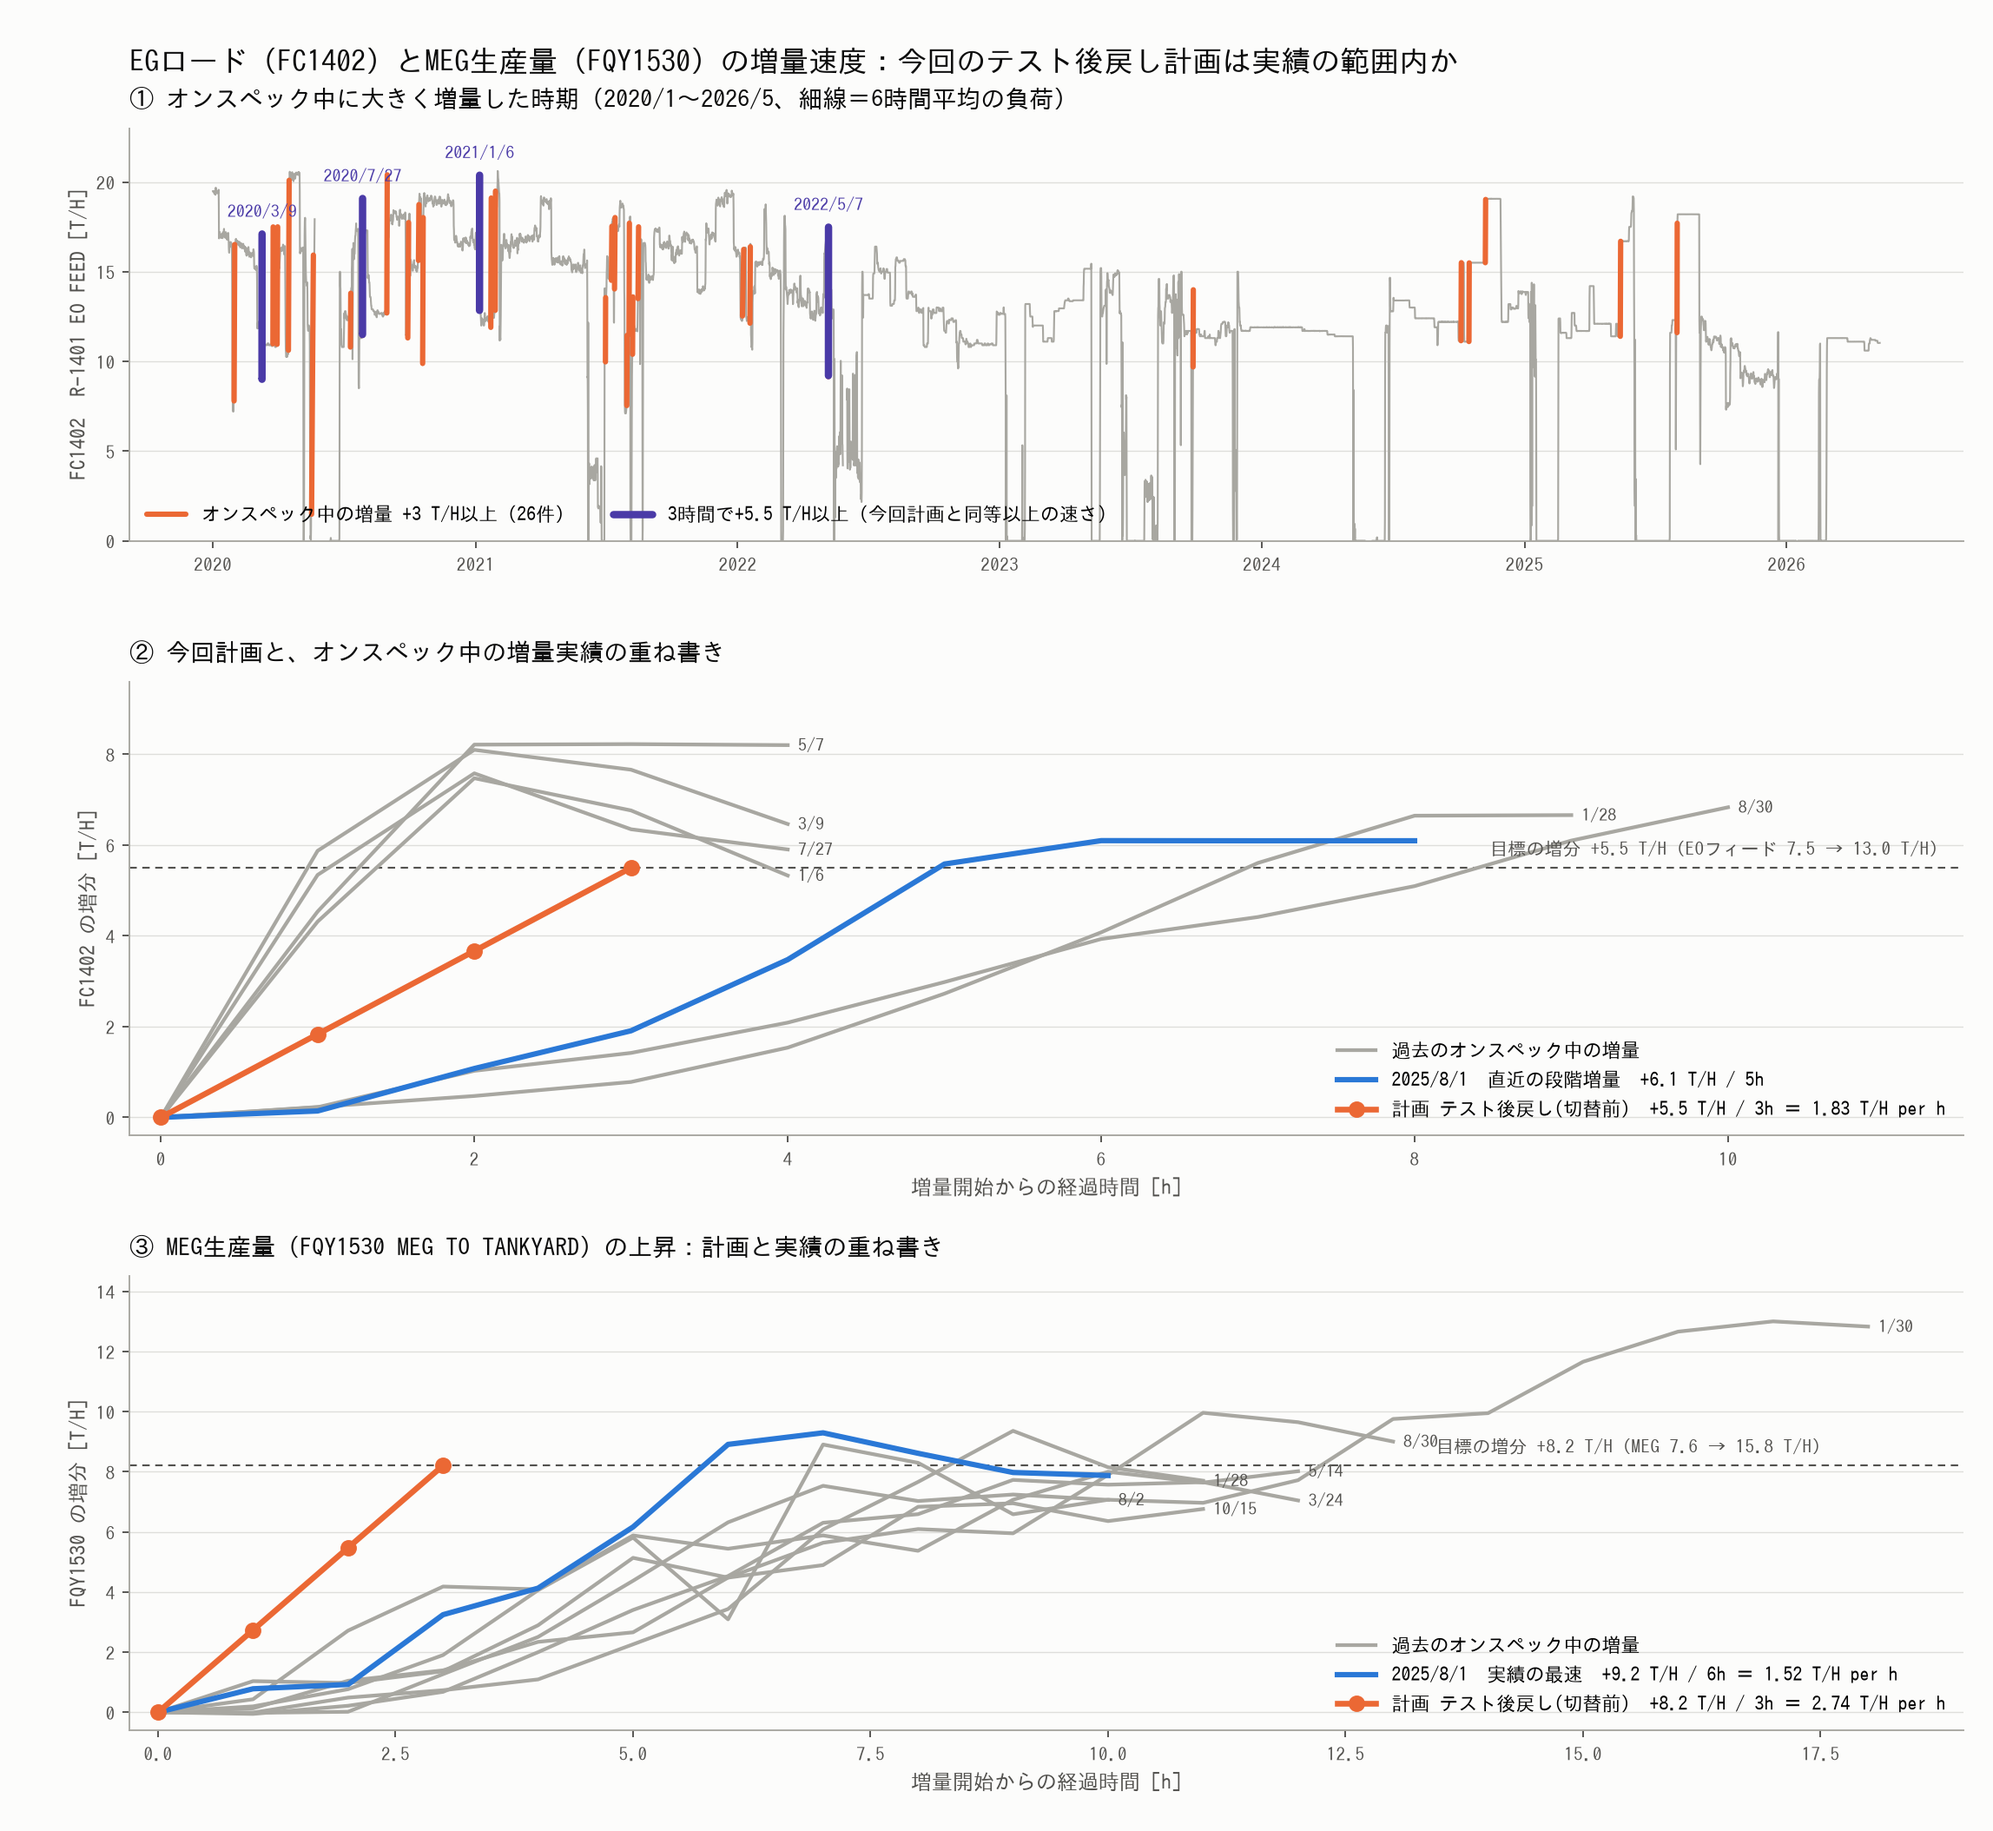
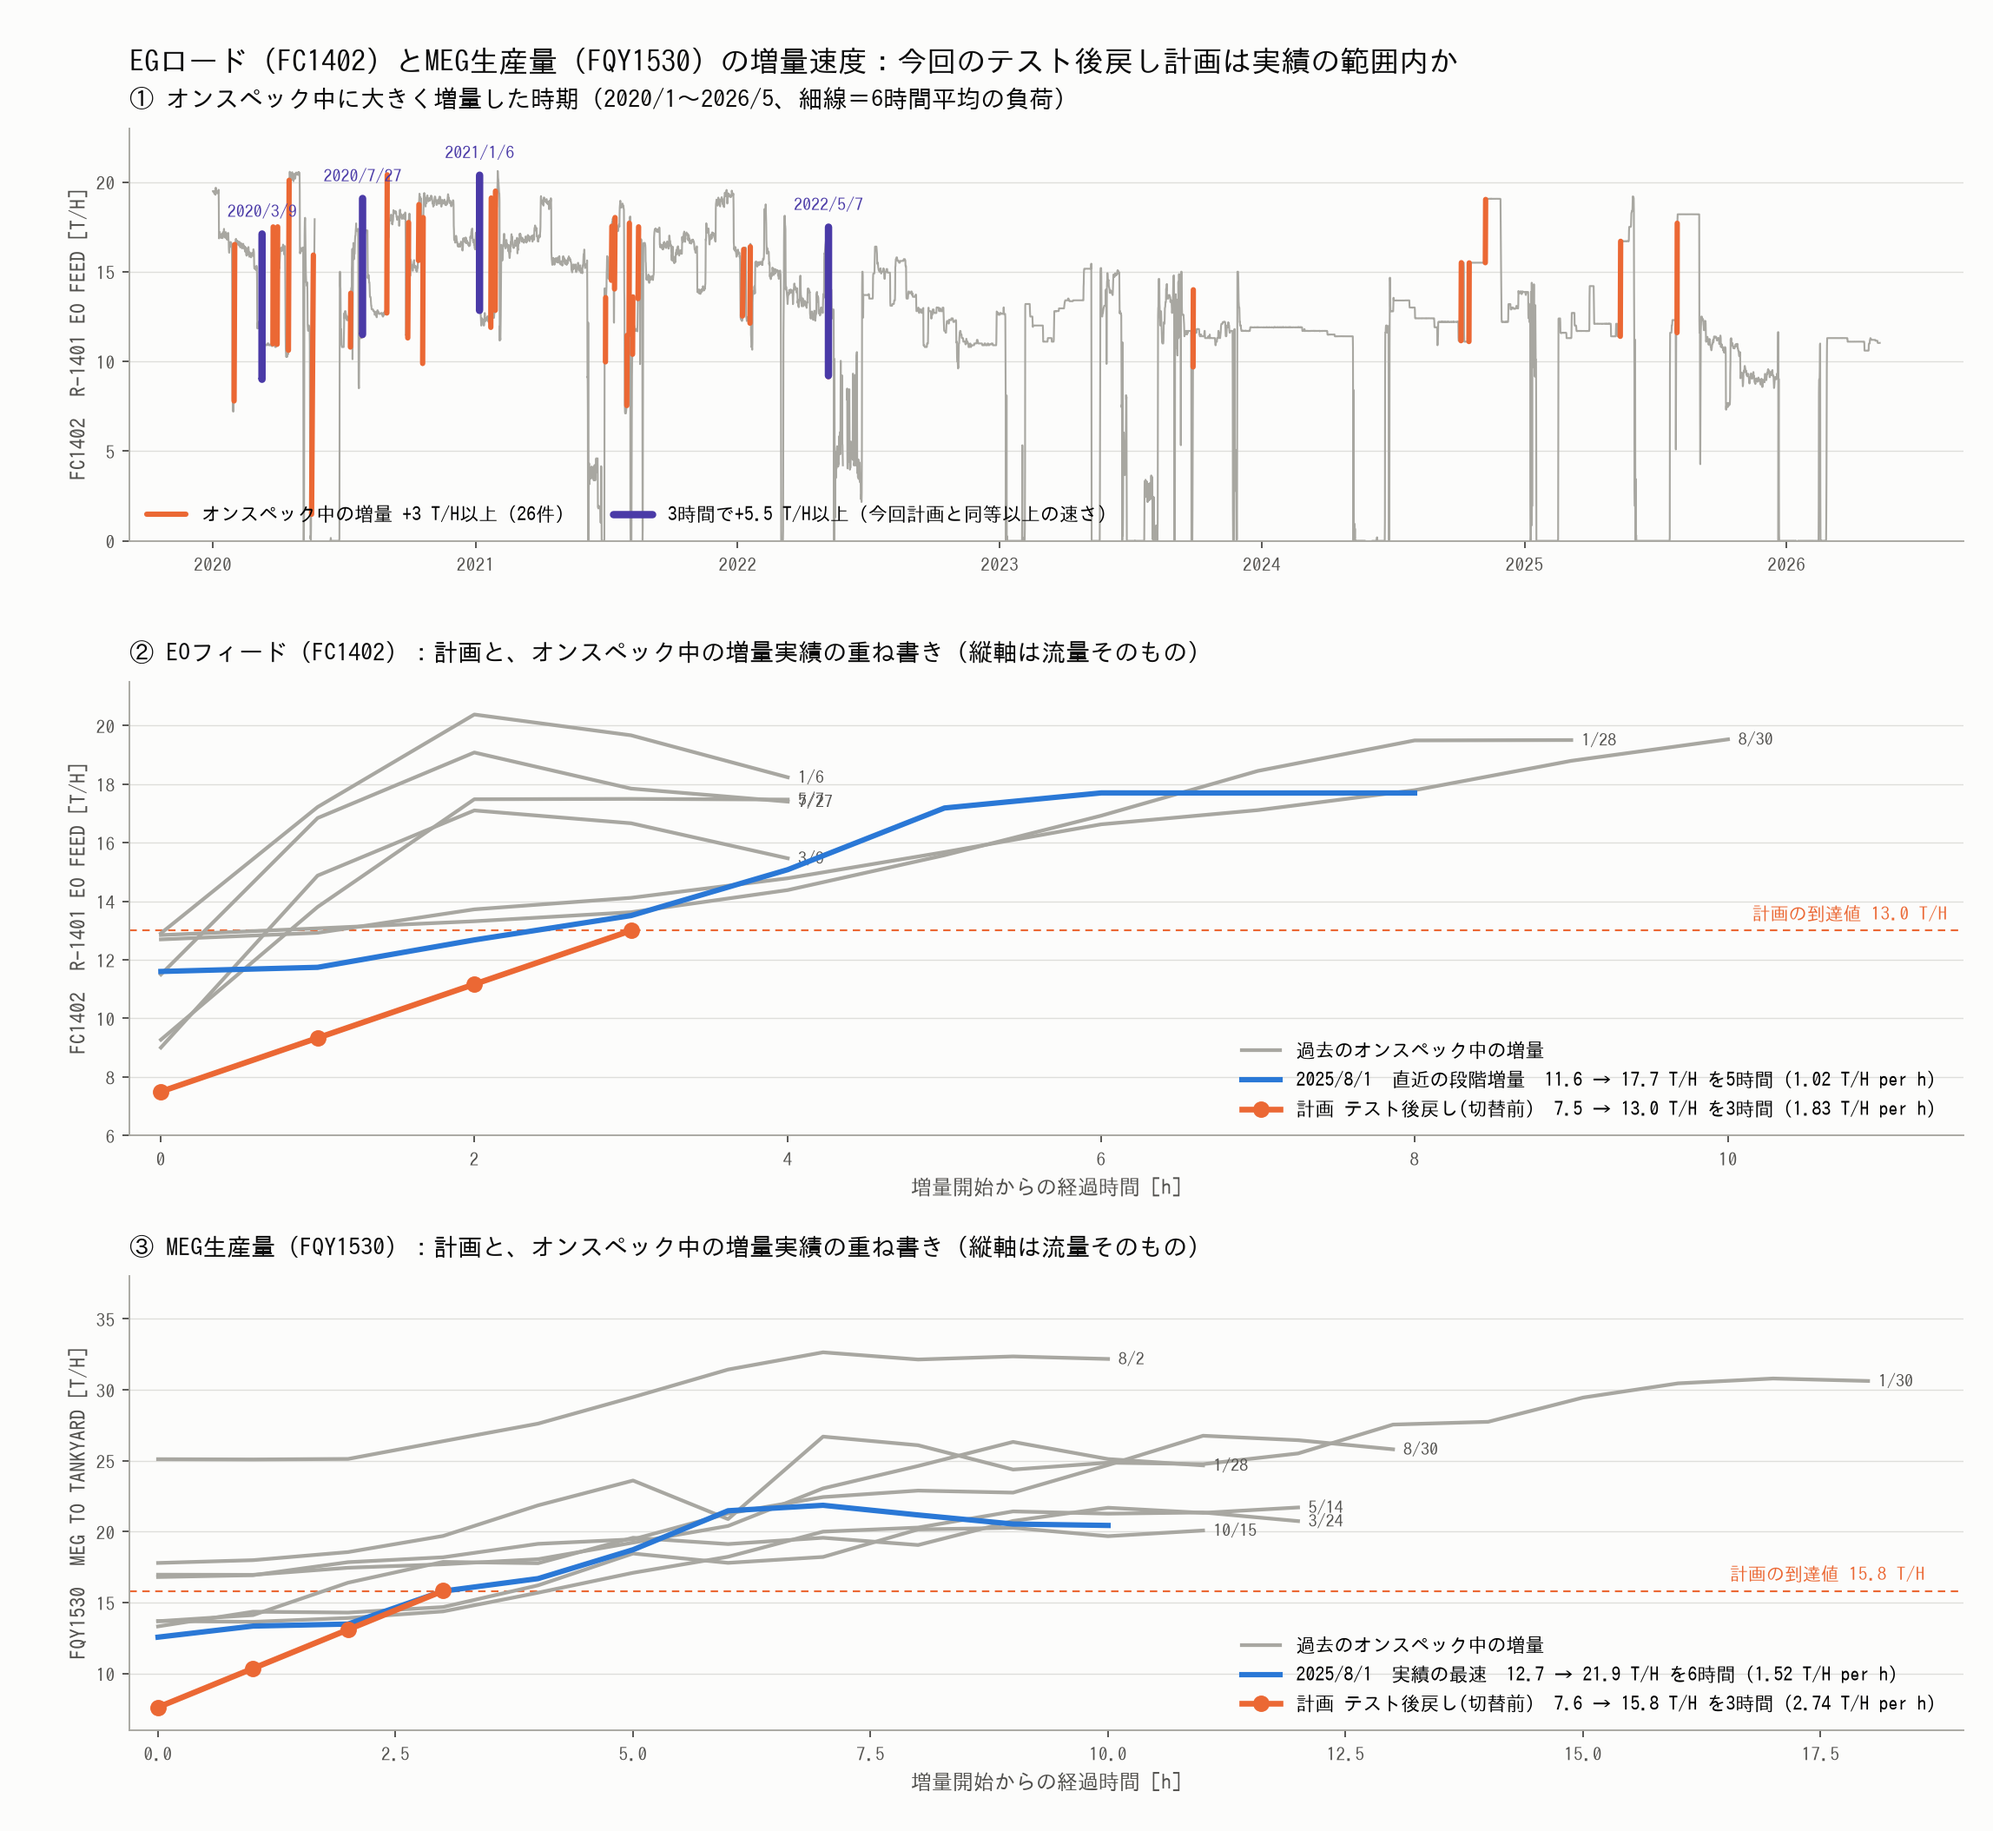
重ね書きの縦軸を差分から流量そのものに変更
②③の縦軸を「増量開始時点からの増分」ではなく FC1402 / FQY1530 の
流量値[T/H]そのままにし、計画の到達値を破線で示した。

Claude-Session: https://claude.ai/code/session_01DLLEnCkLEG9wDthmhzEFpm

diff --git a/scripts/plot_rampup_vs_plan.py b/scripts/plot_rampup_vs_plan.py
@@ -81,26 +81,25 @@ past = [('2020-03-09 10:00', 4), ('2020-07-27 10:00', 4), ('2021-01-06 10:00', 4
 first = True
 for t0, hrs in past:
     seg = L.loc[t0:pd.Timestamp(t0) + pd.Timedelta(hours=hrs)]
-    ax2.plot(range(len(seg)), seg.values - seg.iloc[0], lw=1.8, color=MUTED, zorder=2,
+    ax2.plot(range(len(seg)), seg.values, lw=1.8, color=MUTED, zorder=2,
              label='過去のオンスペック中の増量' if first else None)
     first = False
-    ax2.annotate(pd.Timestamp(t0).strftime('%-m/%-d'),
-                 xy=(len(seg) - 1, seg.iloc[-1] - seg.iloc[0]), xytext=(5, -3),
-                 textcoords='offset points', fontsize=8.5, color=INK2)
+    ax2.annotate(pd.Timestamp(t0).strftime('%-m/%-d'), xy=(len(seg) - 1, seg.iloc[-1]),
+                 xytext=(5, -3), textcoords='offset points', fontsize=8.5, color=INK2)
 seg = L.loc['2025-08-01 09:00':'2025-08-01 17:00']
-ax2.plot(range(len(seg)), seg.values - seg.iloc[0], lw=2.6, color=BLUE, zorder=4,
-         label='2025/8/1  直近の段階増量  +6.1 T/H / 5h')
-ax2.plot(range(len(plan3)), np.array(plan3) - plan3[0], lw=2.8, color=ORANGE, zorder=5,
-         marker='o', ms=7, label='計画 テスト後戻し(切替前)  +5.5 T/H / 3h ＝ 1.83 T/H per h')
-ax2.axhline(5.5, color=INK2, lw=0.9, ls=(0, (4, 3)), zorder=1)
-ax2.annotate('目標の増分 +5.5 T/H（EOフィード 7.5 → 13.0 T/H）', xy=(11.4, 5.5),
-             xytext=(0, 6), textcoords='offset points', ha='right', fontsize=9, color=INK2)
+ax2.plot(range(len(seg)), seg.values, lw=2.6, color=BLUE, zorder=4,
+         label='2025/8/1  直近の段階増量  11.6 → 17.7 T/H を5時間（1.02 T/H per h）')
+ax2.plot(range(len(plan3)), np.array(plan3), lw=2.8, color=ORANGE, zorder=5, marker='o', ms=7,
+         label='計画 テスト後戻し(切替前)  7.5 → 13.0 T/H を3時間（1.83 T/H per h）')
+ax2.axhline(13.0, color=ORANGE, lw=0.9, ls=(0, (4, 3)), zorder=1)
+ax2.annotate('計画の到達値 13.0 T/H', xy=(11.4, 13.0), xytext=(0, 5), textcoords='offset points',
+             ha='right', fontsize=9, color=ORANGE)
 ax2.set_xlabel('増量開始からの経過時間 [h]', fontsize=10, color=INK2)
-ax2.set_ylabel('FC1402 の増分 [T/H]', fontsize=10, color=INK2)
-ax2.set_title('② 今回計画と、オンスペック中の増量実績の重ね書き', fontsize=12, color=INK, loc='left', pad=10)
+ax2.set_ylabel('FC1402  R-1401 EO FEED [T/H]', fontsize=10, color=INK2)
+ax2.set_title('② EOフィード（FC1402）：計画と、オンスペック中の増量実績の重ね書き（縦軸は流量そのもの）', fontsize=12, color=INK, loc='left', pad=10)
 ax2.legend(frameon=False, fontsize=9.5, loc='lower right')
 ax2.set_xlim(-0.2, 11.5)
-ax2.set_ylim(-0.4, 9.6)
+ax2.set_ylim(6, 21.5)
 for sp in ('top', 'right'):
     ax2.spines[sp].set_visible(False)
 for sp in ('left', 'bottom'):
@@ -120,26 +119,26 @@ planQ3 = [7.625, 10.361111, 13.097222, 15.833333]
 first = True
 for t0, hrs in meg_past:
     seg = Qc.loc[t0:pd.Timestamp(t0) + pd.Timedelta(hours=hrs)].ffill()
-    ax3.plot(range(len(seg)), seg.values - seg.iloc[0], lw=1.8, color=MUTED, zorder=2,
+    ax3.plot(range(len(seg)), seg.values, lw=1.8, color=MUTED, zorder=2,
              label='過去のオンスペック中の増量' if first else None)
     first = False
-    ax3.annotate(pd.Timestamp(t0).strftime('%-m/%-d'), xy=(len(seg) - 1, seg.iloc[-1] - seg.iloc[0]),
+    ax3.annotate(pd.Timestamp(t0).strftime('%-m/%-d'), xy=(len(seg) - 1, seg.iloc[-1]),
                  xytext=(5, -3), textcoords='offset points', fontsize=8.5, color=INK2)
 seg = Qc.loc['2025-08-01 09:00':'2025-08-01 19:00'].ffill()
-ax3.plot(range(len(seg)), seg.values - seg.iloc[0], lw=2.6, color=BLUE, zorder=4,
-         label='2025/8/1  実績の最速  +9.2 T/H / 6h ＝ 1.52 T/H per h')
-ax3.plot(range(len(planQ3)), np.array(planQ3) - planQ3[0], lw=2.8, color=ORANGE, zorder=5,
-         marker='o', ms=7, label='計画 テスト後戻し(切替前)  +8.2 T/H / 3h ＝ 2.74 T/H per h')
-ax3.axhline(8.21, color=INK2, lw=0.9, ls=(0, (4, 3)), zorder=1)
-ax3.annotate('目標の増分 +8.2 T/H（MEG 7.6 → 15.8 T/H）', xy=(17.6, 8.21), xytext=(0, 6),
-             textcoords='offset points', ha='right', fontsize=9, color=INK2)
+ax3.plot(range(len(seg)), seg.values, lw=2.6, color=BLUE, zorder=4,
+         label='2025/8/1  実績の最速  12.7 → 21.9 T/H を6時間（1.52 T/H per h）')
+ax3.plot(range(len(planQ3)), np.array(planQ3), lw=2.8, color=ORANGE, zorder=5, marker='o', ms=7,
+         label='計画 テスト後戻し(切替前)  7.6 → 15.8 T/H を3時間（2.74 T/H per h）')
+ax3.axhline(15.83, color=ORANGE, lw=0.9, ls=(0, (4, 3)), zorder=1)
+ax3.annotate('計画の到達値 15.8 T/H', xy=(18.6, 15.83), xytext=(0, 5), textcoords='offset points',
+             ha='right', fontsize=9, color=ORANGE)
 ax3.set_xlabel('増量開始からの経過時間 [h]', fontsize=10, color=INK2)
-ax3.set_ylabel('FQY1530 の増分 [T/H]', fontsize=10, color=INK2)
-ax3.set_title('③ MEG生産量（FQY1530 MEG TO TANKYARD）の上昇：計画と実績の重ね書き',
+ax3.set_ylabel('FQY1530  MEG TO TANKYARD [T/H]', fontsize=10, color=INK2)
+ax3.set_title('③ MEG生産量（FQY1530）：計画と、オンスペック中の増量実績の重ね書き（縦軸は流量そのもの）',
               fontsize=12, color=INK, loc='left', pad=10)
 ax3.legend(frameon=False, fontsize=9.5, loc='lower right')
 ax3.set_xlim(-0.3, 19)
-ax3.set_ylim(-0.6, 14.5)
+ax3.set_ylim(6, 38)
 for sp in ('top', 'right'):
     ax3.spines[sp].set_visible(False)
 for sp in ('left', 'bottom'):
